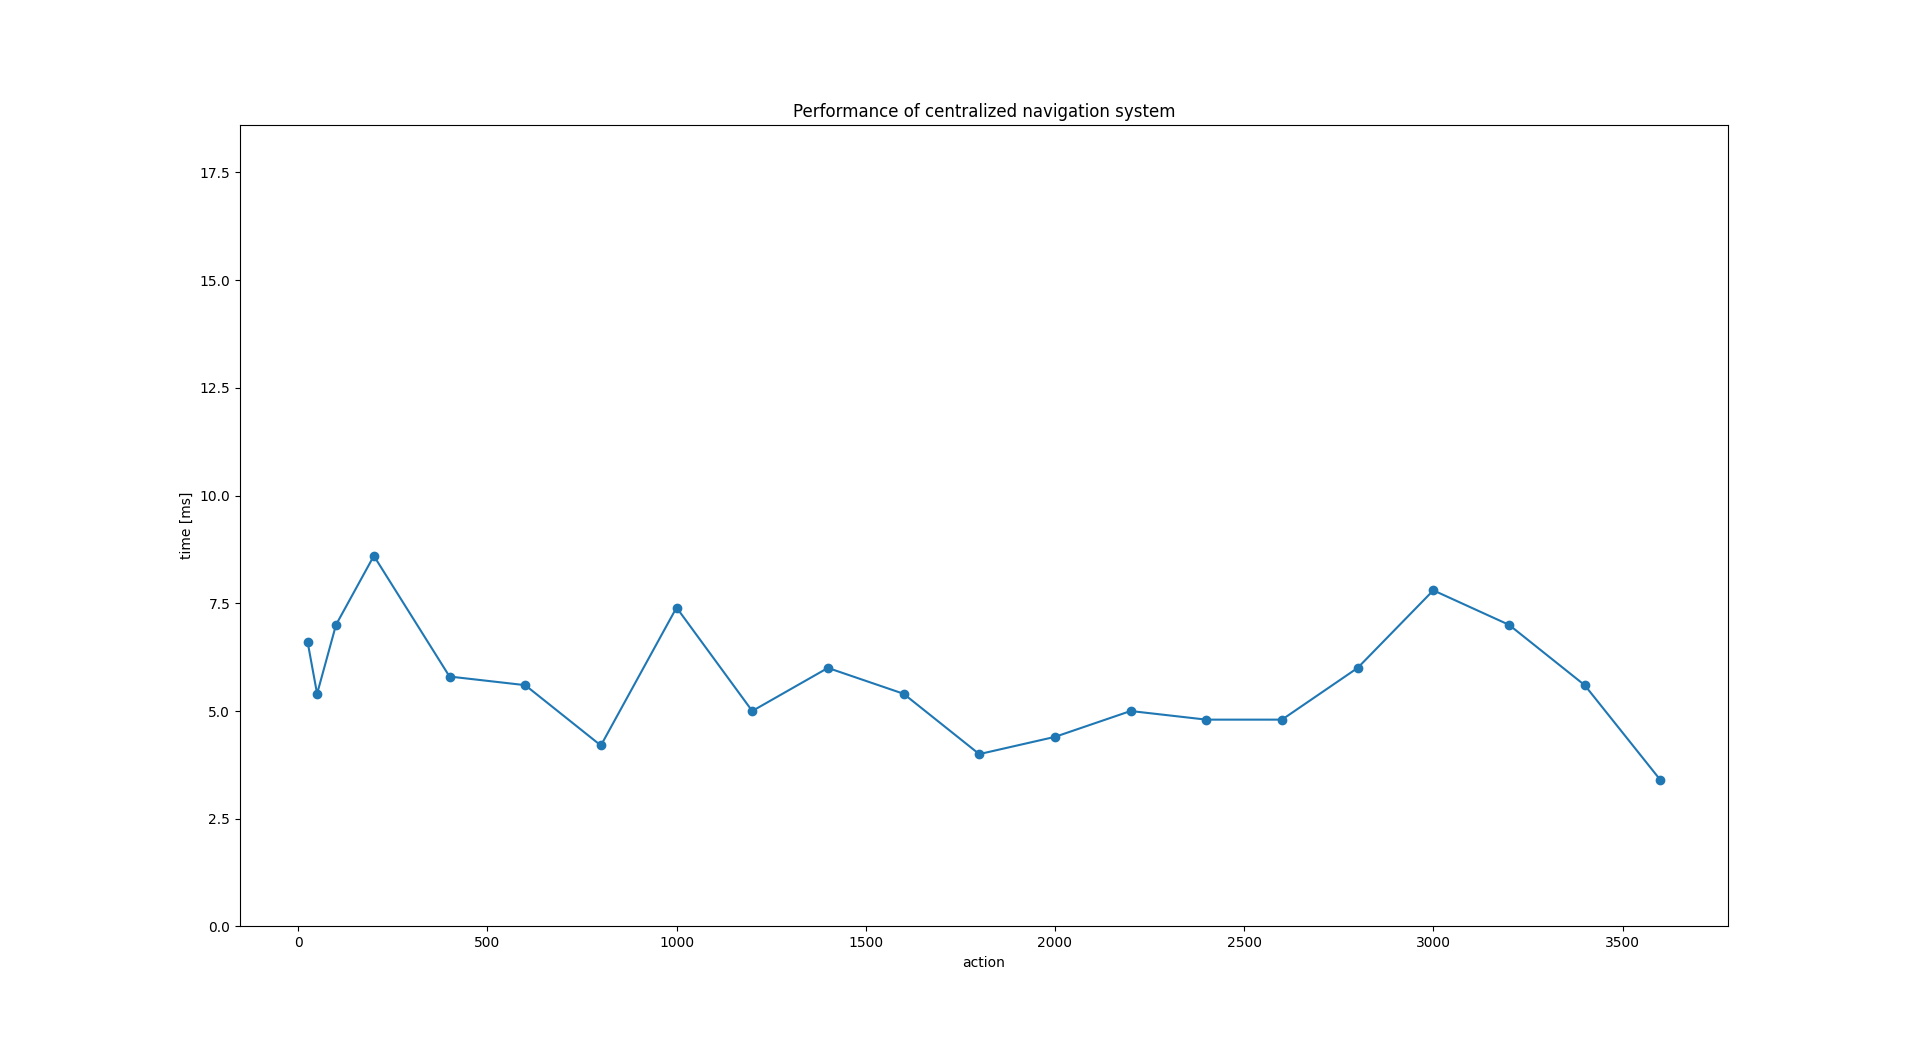
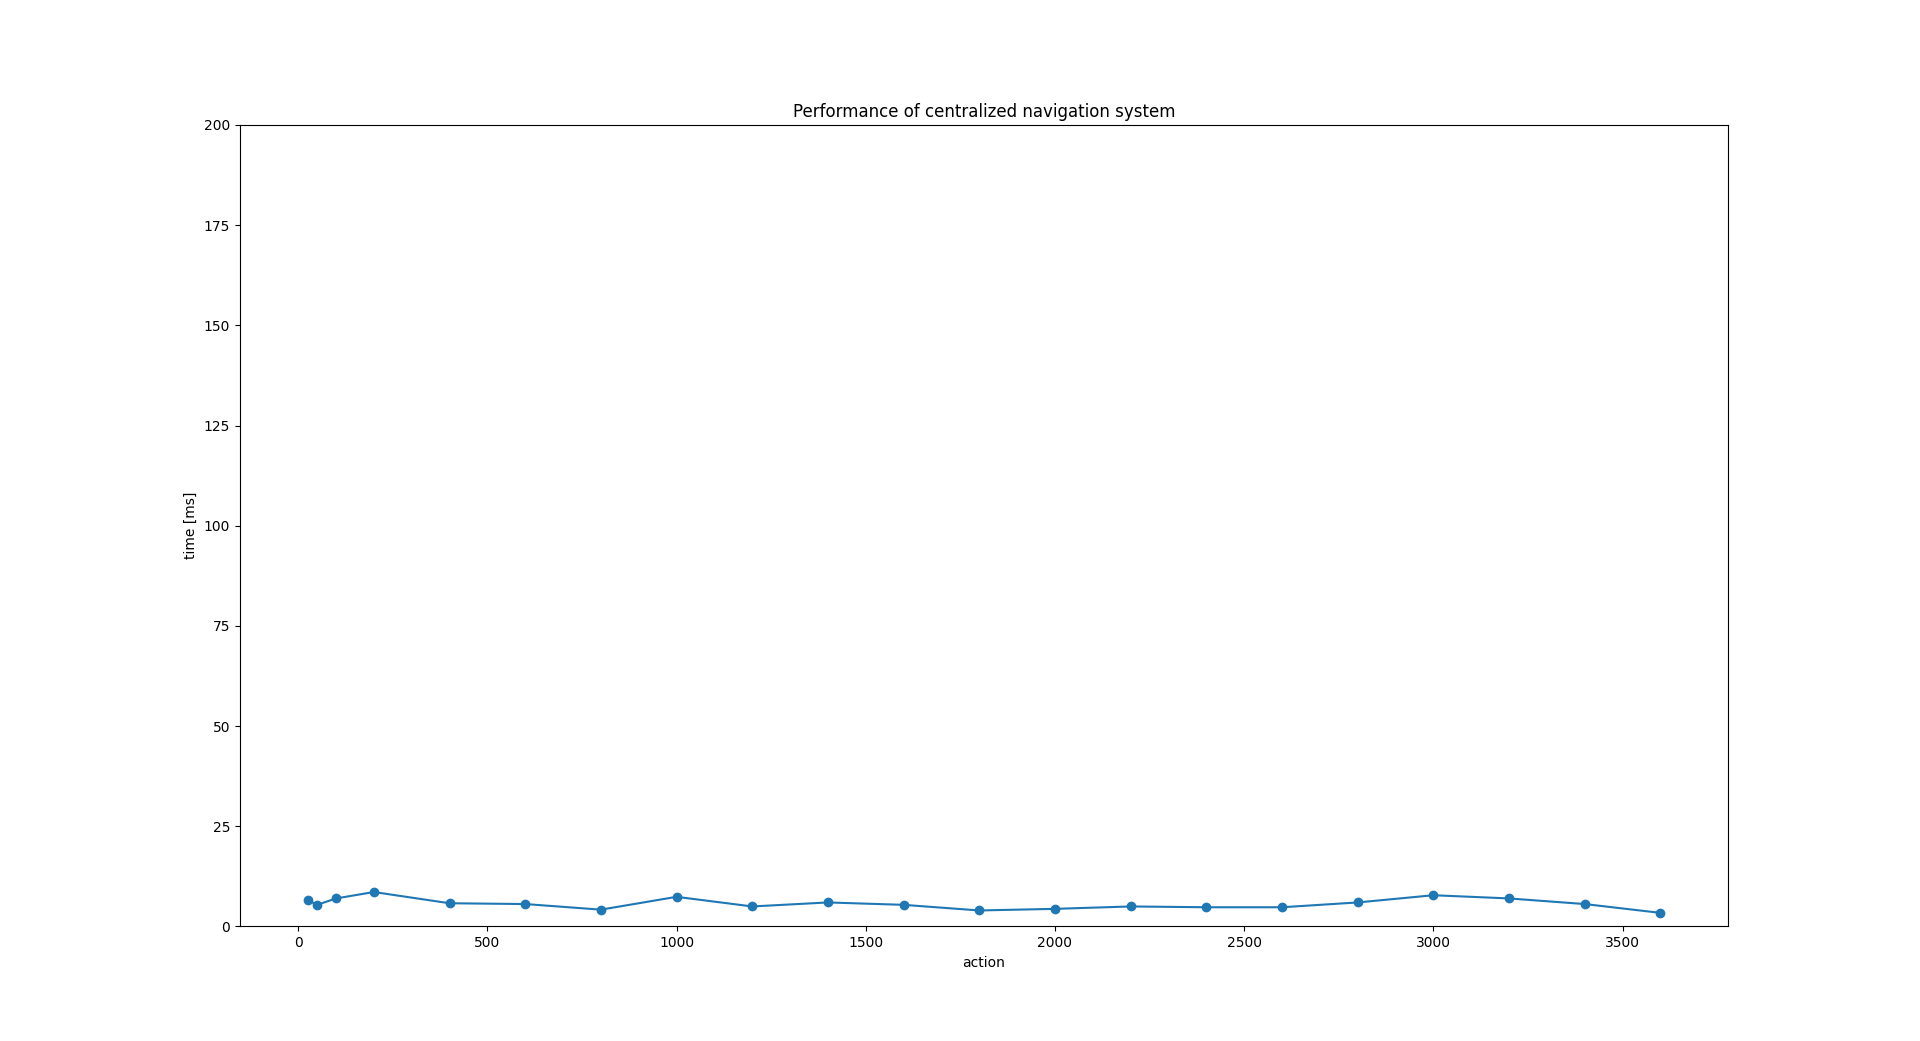
Set individual ylim for better comparison

diff --git a/thesis/figures/pyplot/plot.py b/thesis/figures/pyplot/plot.py
@@ -85,7 +85,7 @@ def insert_interpolation(plotData: PlotData, cache_step: int):
     if t is None:
       plotData.data.append(CacheDataPoint(action=x, samples=[avg_mid_cache_time], cache=False, interpolated=True))
 
-def plot_cache(plotData: PlotData, title):
+def plot_cache(plotData: PlotData, title, ylim):
   fig, ax = plt.subplots(figsize=(20, 5))
   x, y = plotData.x(), plotData.y()
 
@@ -105,7 +105,7 @@ def plot_cache(plotData: PlotData, title):
 
   ax.legend()
   ax.set(title=title, xlabel='action', ylabel='time [ms]')
-  plt.ylim(0, max(y)+10)
+  plt.ylim(0, ylim)
   plt.show()
 
 def plot_cache_qr(plotData: PlotData):
@@ -113,7 +113,7 @@ def plot_cache_qr(plotData: PlotData):
   Create the plot for the navigation system with caches at every quarterround.
   """
   insert_interpolation(plotData, 46)
-  plot_cache(plotData, title='Performance of navigation system with caches for every quarterround')
+  plot_cache(plotData, 'Performance of navigation system with caches for every quarterround', 1500)
 
 plot_cache_qr(data[0])
 
@@ -122,7 +122,7 @@ def plot_cache_round(plotData: PlotData):
   Create the plot for the navigation system with caches at every round.
   """
   insert_interpolation(plotData, 184)
-  plot_cache(plotData, title='Performance of navigation system with caches for every round')
+  plot_cache(plotData, 'Performance of navigation system with caches for every round', 1500)
   
 plot_cache_round(data[1])
 
@@ -132,7 +132,7 @@ def plot_linear(plotData: PlotData):
 
   ax.plot(x, y, '-o')
   ax.set(title='Performance of linear navigation system', xlabel='action', ylabel='time [ms]')
-  plt.ylim(0, max(y) + 10)
+  plt.ylim(0, 45000)
   plt.show()
 
 plot_linear(data[3])
@@ -143,7 +143,7 @@ def plot_central(plotData: PlotData):
 
   ax.plot(x, y, '-o')
   ax.set(title='Performance of centralized navigation system', xlabel='action', ylabel='time [ms]')
-  plt.ylim(0, max(y) + 10)
+  plt.ylim(0, 200)
   plt.show()
 
 plot_central(data[2])
